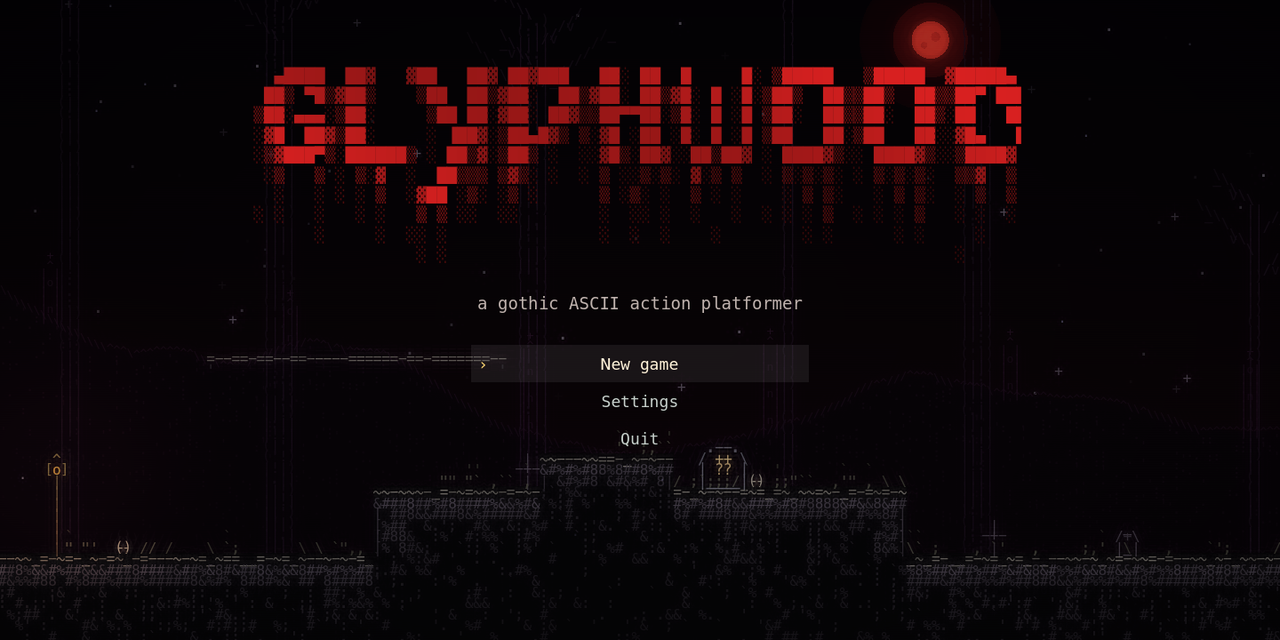
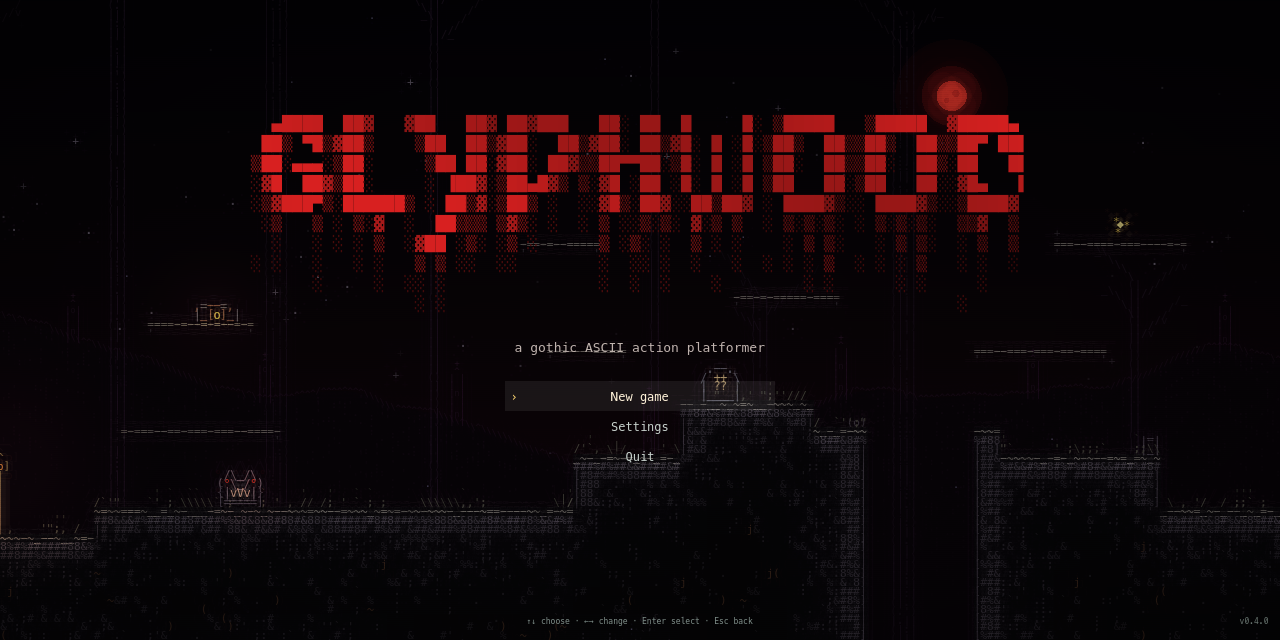
docs: new gameplay GIF and screenshots; drop leftover web build mentions
- Re-record docs/gameplay.gif, docs/title.png and docs/social-preview.png
  with the 0.4.0 HUD, lanterns, combos and crits
- Issue templates, PR template and SECURITY.md no longer mention the
  browser build; the download link points to the latest release
- CI no longer unpacks the unused Web export templates
- CONTRIBUTING: seven languages, lanterns, shop/moves menus, v0.4.0

diff --git a/CONTRIBUTING.md b/CONTRIBUTING.md
@@ -40,9 +40,9 @@ godot --path . -- --play --bot --seed=42 --level=2 --time=10 --shot=out.png
 | `--level=N` | Start at level N (two levels per biome; even levels end with a boss) |
 | `--boss` | Start next to the boss arena (with an even `--level`) |
 | `--zoo` | Spawn one enemy of every type next to the start |
-| `--menu=NAME` | Open a menu: `settings`, `inventory`, `map`, `pause` |
+| `--menu=NAME` | Open a menu: `settings`, `inventory`, `map`, `pause`, `shop`, `moves` |
 | `--tab=N` | Settings tab to open (0 game, 1 video, 2 audio, 3 controls) |
-| `--lang=CODE` | Interface language: `en`, `ru`, `uk`, `de`, `es`, `fr` |
+| `--lang=CODE` | Interface language: `en`, `de`, `ru`, `zh`, `es`, `fr`, `ja` |
 | `--shot=file.png` | Save a screenshot after `--time` seconds, then quit |
 | `--time=S` | Delay for `--shot` (default 1 s) |
 | `--record=dir` | Save every third frame as PNG into `dir` |
@@ -94,8 +94,9 @@ A path runs from the start room in the top row to the exit (or boss) room in the
 bottom row, moving sideways through openings in the walls and down through
 shafts in the floor. Path rooms are generated from a floor and ceiling height
 line with pits, platforms, secret pockets and decorations; one of them becomes an
-arena. Rooms next to the path become side rooms: the merchant, a shrine, treasure
-rooms and hand-made **vaults**.
+arena. Three lanterns (checkpoints) are placed along the path: in the start room,
+halfway and in the last room. Rooms next to the path become side rooms: the
+merchant, treasure rooms and hand-made **vaults**.
 
 ## Adding a vault
 
@@ -194,7 +195,7 @@ Mark breaking changes with `!` (`feat!: ...`) or a `BREAKING CHANGE:` footer.
 
 1. Move the `Unreleased` entries in `CHANGELOG.md` into a new version section.
 2. Bump `config/version` in `project.godot`.
-3. Commit, then tag and push: `git tag v0.3.0 && git push origin v0.3.0`.
+3. Commit, then tag and push: `git tag v0.4.0 && git push origin v0.4.0`.
 4. The **Release** workflow exports all platforms and publishes the GitHub
    release with the changelog section.
 

diff --git a/.github/pull_request_template.md b/.github/pull_request_template.md
@@ -12,7 +12,7 @@
 
 ## How was it tested?
 
-<!-- e.g. played levels 1–3, `--seed=7 --bot`, Web build in Firefox -->
+<!-- e.g. played levels 1–3, `--seed=7 --bot`, Windows build -->
 
 ## Screenshots / GIF
 
@@ -23,5 +23,5 @@
 - [ ] The PR title follows [Conventional Commits](https://www.conventionalcommits.org/) (`feat: ...`, `fix: ...`)
 - [ ] `gdlint scripts` passes
 - [ ] `godot --headless --path . --import` prints no `SCRIPT ERROR`
-- [ ] New UI text is added to `scripts/strings.gd` in all six languages
+- [ ] New UI text is added to `scripts/strings.gd` in all seven languages
 - [ ] `CHANGELOG.md` has an entry under **Unreleased** (for user-visible changes)

diff --git a/SECURITY.md b/SECURITY.md
@@ -1,8 +1,9 @@
 # Security Policy
 
-Glyphwood is a single-player offline game: it does not use the network, accounts
-or save files. Security issues are still possible, for example in the build
-pipeline (GitHub Actions) or in the Web build hosted on GitHub Pages.
+Glyphwood is a single-player offline game: it does not use the network or
+accounts, and saves are local files. Security issues are still possible, for
+example in the build pipeline (GitHub Actions) or in the install scripts
+(`install.sh`, `install.ps1`) that download releases from GitHub.
 
 ## Supported versions
 
